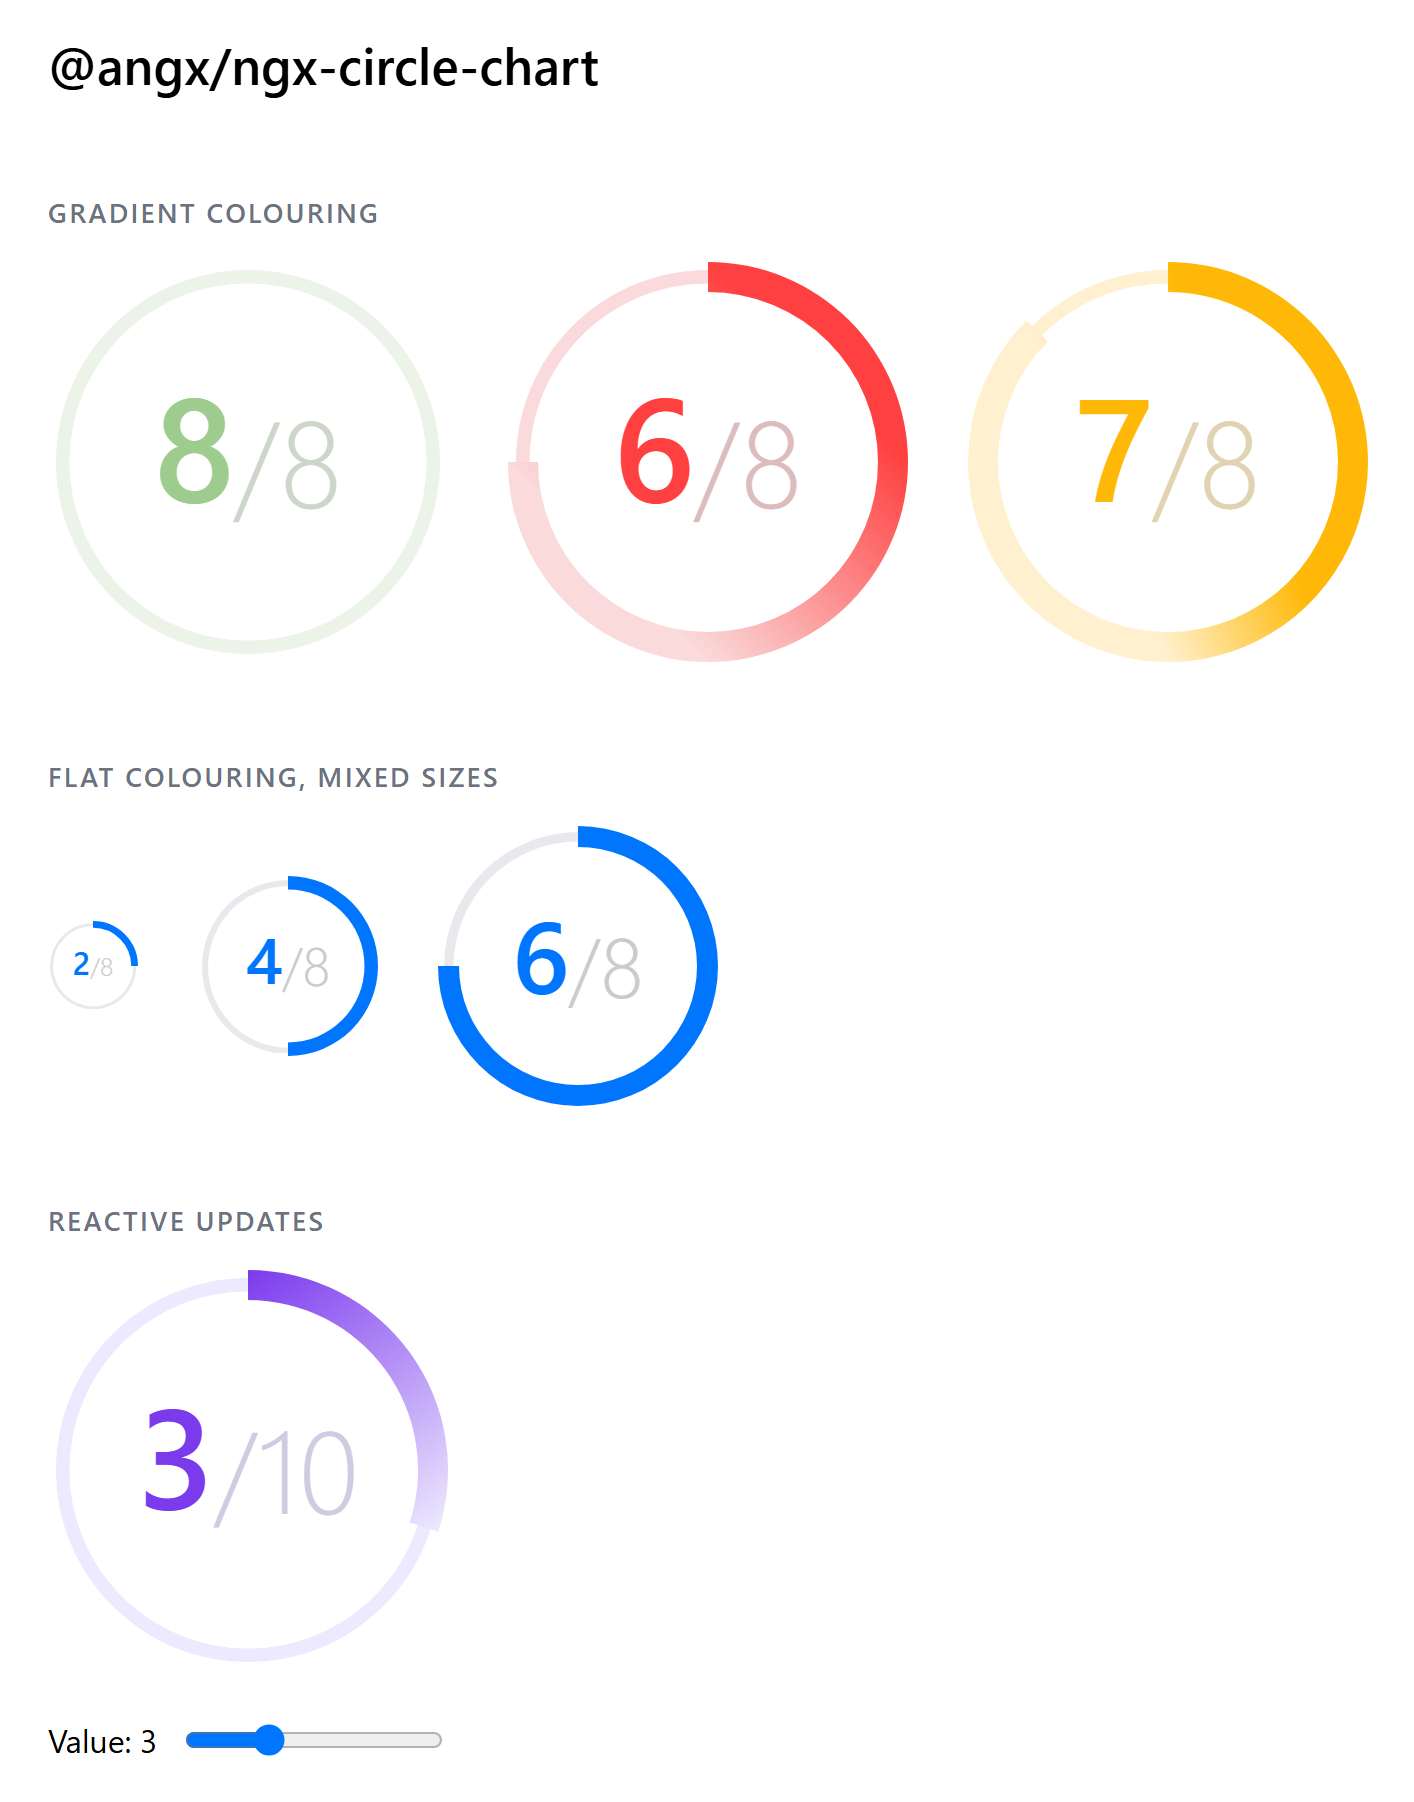
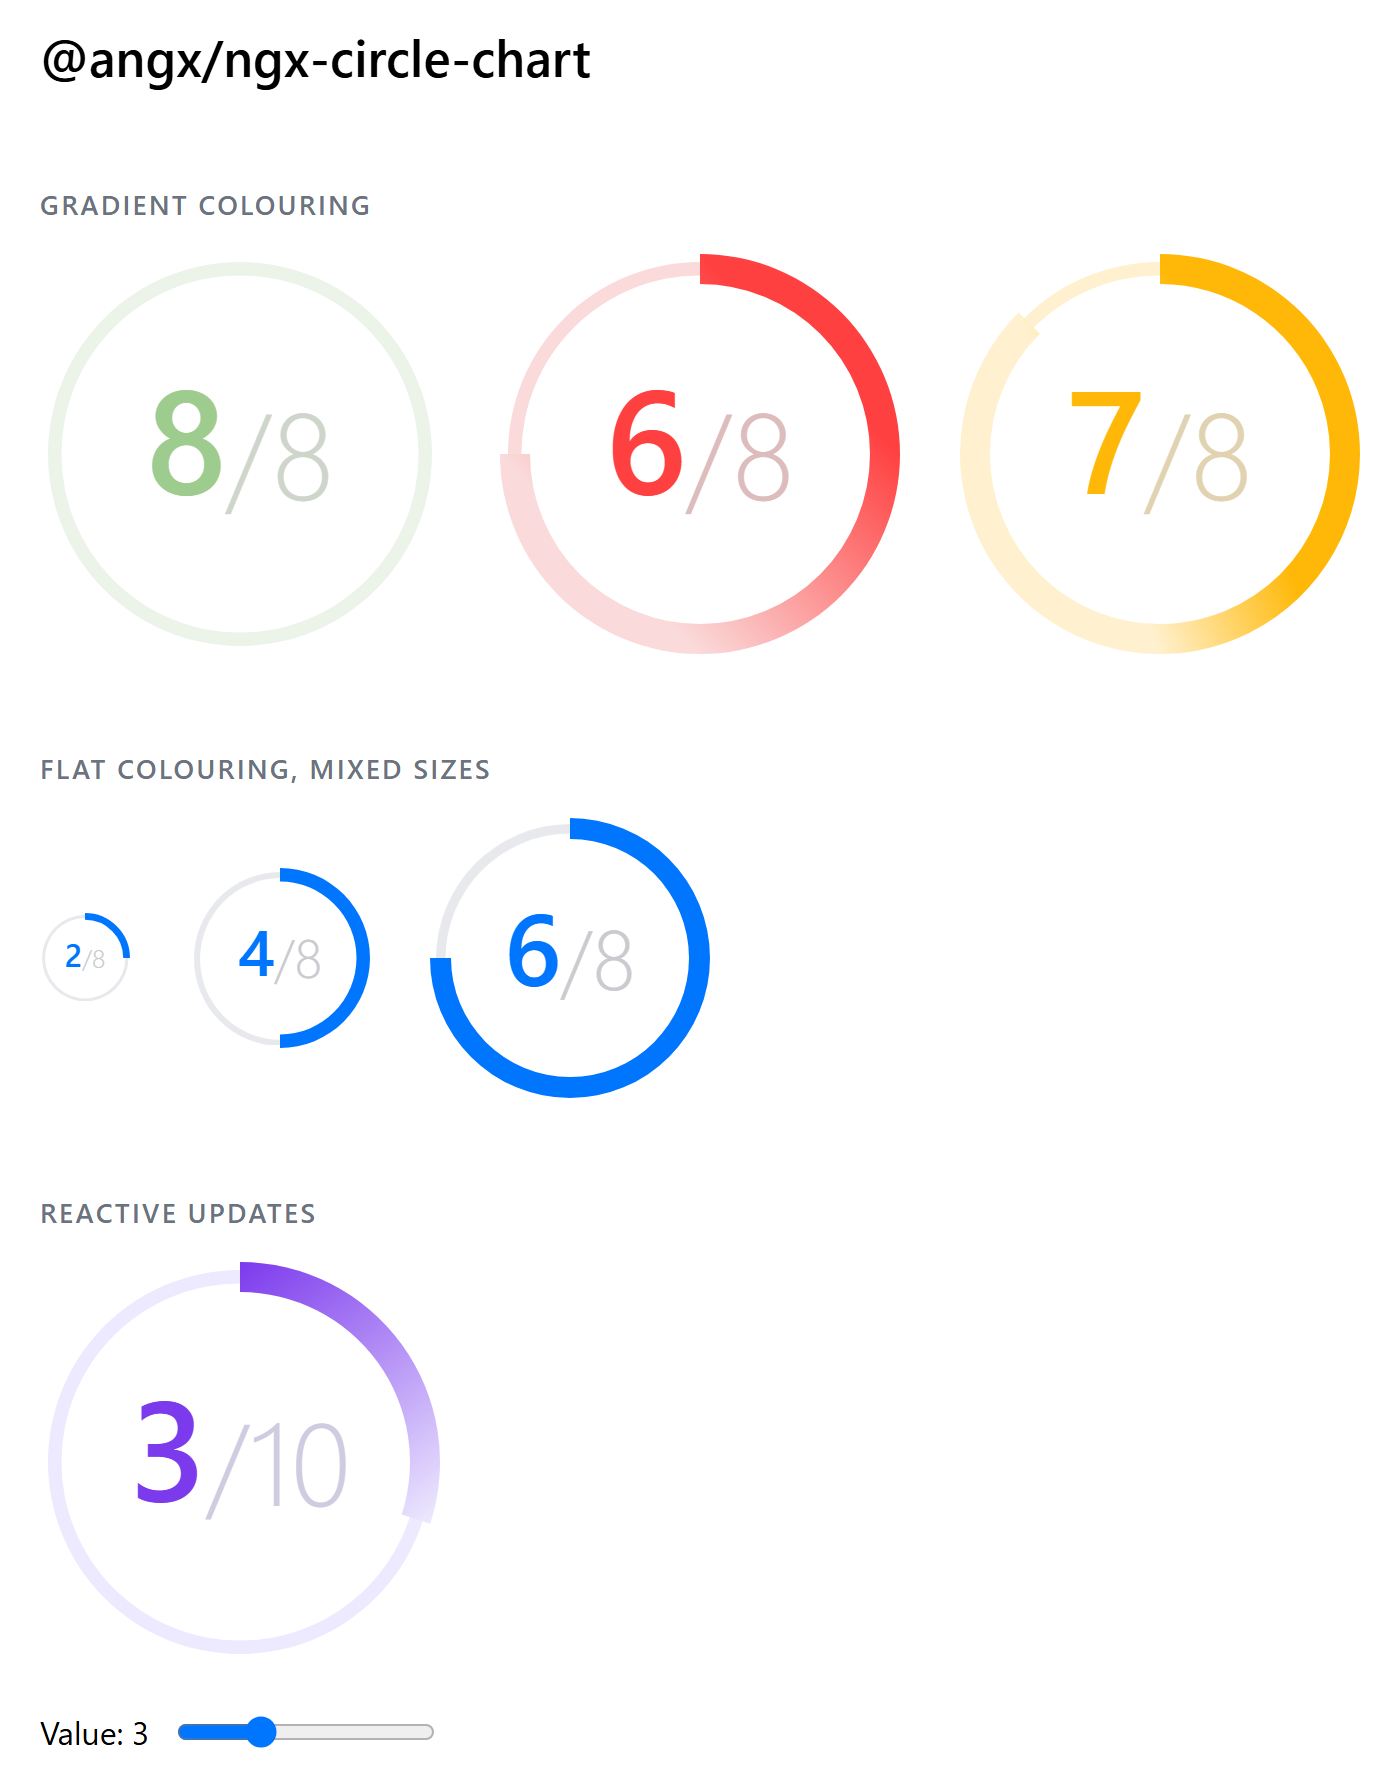
Rename the patched captcha bundle so the fix reaches browsers
Angular names bundles by a hash of their contents, so patching the site key
into main-3J5SALHY.js in place left the old name sitting on new content.
Every browser and CDN already holding that URL kept serving the unpatched
copy, and the demo failed with an invalid-site-key error naming the
placeholder that was supposed to have been replaced.

apply-recaptcha-key.mjs now renames the bundle to a hash of its patched
contents and rewrites the index.html files that reference it, so the URL
changes whenever the contents do.

diff --git a/demo/ngx-easy-captcha/cloudflare-turnstile/index.html b/demo/ngx-easy-captcha/cloudflare-turnstile/index.html
@@ -9,5 +9,5 @@
 <style>html,body{height:100%}html{display:table;margin:auto}body{display:table-cell;vertical-align:middle}</style><link rel="stylesheet" href="styles-GT7KTEUY.css" media="print" onload="this.media='all'"><noscript><link rel="stylesheet" href="styles-GT7KTEUY.css"></noscript></head>
 <body>
   <app-root></app-root>
-<script src="main-3J5SALHY.js" type="module"></script></body>
+<script src="main-BOHO3SYI.js" type="module"></script></body>
 </html>

diff --git a/demo/ngx-easy-captcha/google-recaptcha/index.html b/demo/ngx-easy-captcha/google-recaptcha/index.html
@@ -9,5 +9,5 @@
 <style>html,body{height:100%}html{display:table;margin:auto}body{display:table-cell;vertical-align:middle}</style><link rel="stylesheet" href="styles-GT7KTEUY.css" media="print" onload="this.media='all'"><noscript><link rel="stylesheet" href="styles-GT7KTEUY.css"></noscript></head>
 <body>
   <app-root></app-root>
-<script src="main-3J5SALHY.js" type="module"></script></body>
+<script src="main-BOHO3SYI.js" type="module"></script></body>
 </html>

diff --git a/demo/ngx-easy-captcha/index.html b/demo/ngx-easy-captcha/index.html
@@ -9,5 +9,5 @@
 <style>html,body{height:100%}html{display:table;margin:auto}body{display:table-cell;vertical-align:middle}</style><link rel="stylesheet" href="styles-GT7KTEUY.css" media="print" onload="this.media='all'"><noscript><link rel="stylesheet" href="styles-GT7KTEUY.css"></noscript></head>
 <body>
   <app-root></app-root>
-<script src="main-3J5SALHY.js" type="module"></script></body>
+<script src="main-BOHO3SYI.js" type="module"></script></body>
 </html>

diff --git a/README.md b/README.md
@@ -54,6 +54,23 @@ work when opened straight off disk rather than through a server.
 from the library repo itself. It passes automatically, so no visible checkbox is drawn — the
 form's "Token received" line is the proof it worked. The page says so explicitly.
 
+**The reCAPTCHA site key** is applied after the build, not committed into angx-libs — a site
+key is per-domain and belongs to this site. After copying a fresh build over `demo/`, run:
+
+```bash
+node tools/apply-recaptcha-key.mjs
+```
+
+> **It renames the bundle, and that matters.** Angular names bundles by a hash of their
+> contents. Patching one in place leaves the old name on new content, so browsers and the CDN
+> keep serving the *unpatched* copy from cache and the demo fails with
+> `Invalid site key or not loaded in api.js: YOUR_RECAPTCHA_SITE_KEY`. The tool renames the
+> file to a hash of its patched contents and rewrites every `index.html` that references it.
+> Never hand-edit a built bundle without renaming it.
+
+The site key is public — it ships in the HTML of every page using reCAPTCHA. The **secret**
+key is not in this repo and isn't needed; the demo doesn't verify server-side.
+
 ## Local preview
 
 Any static server works:
